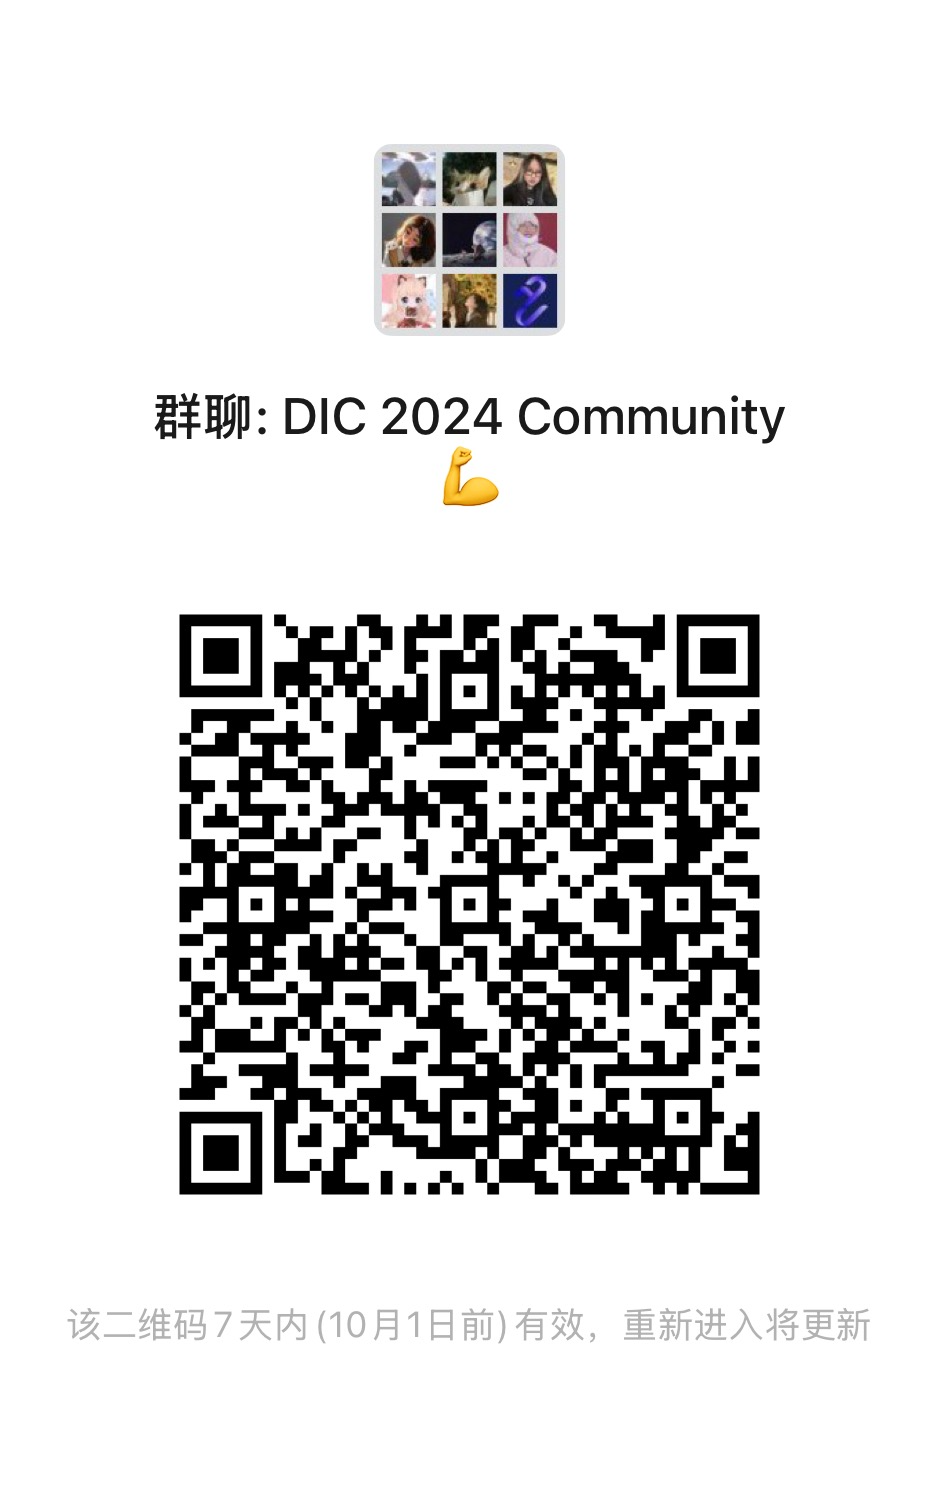
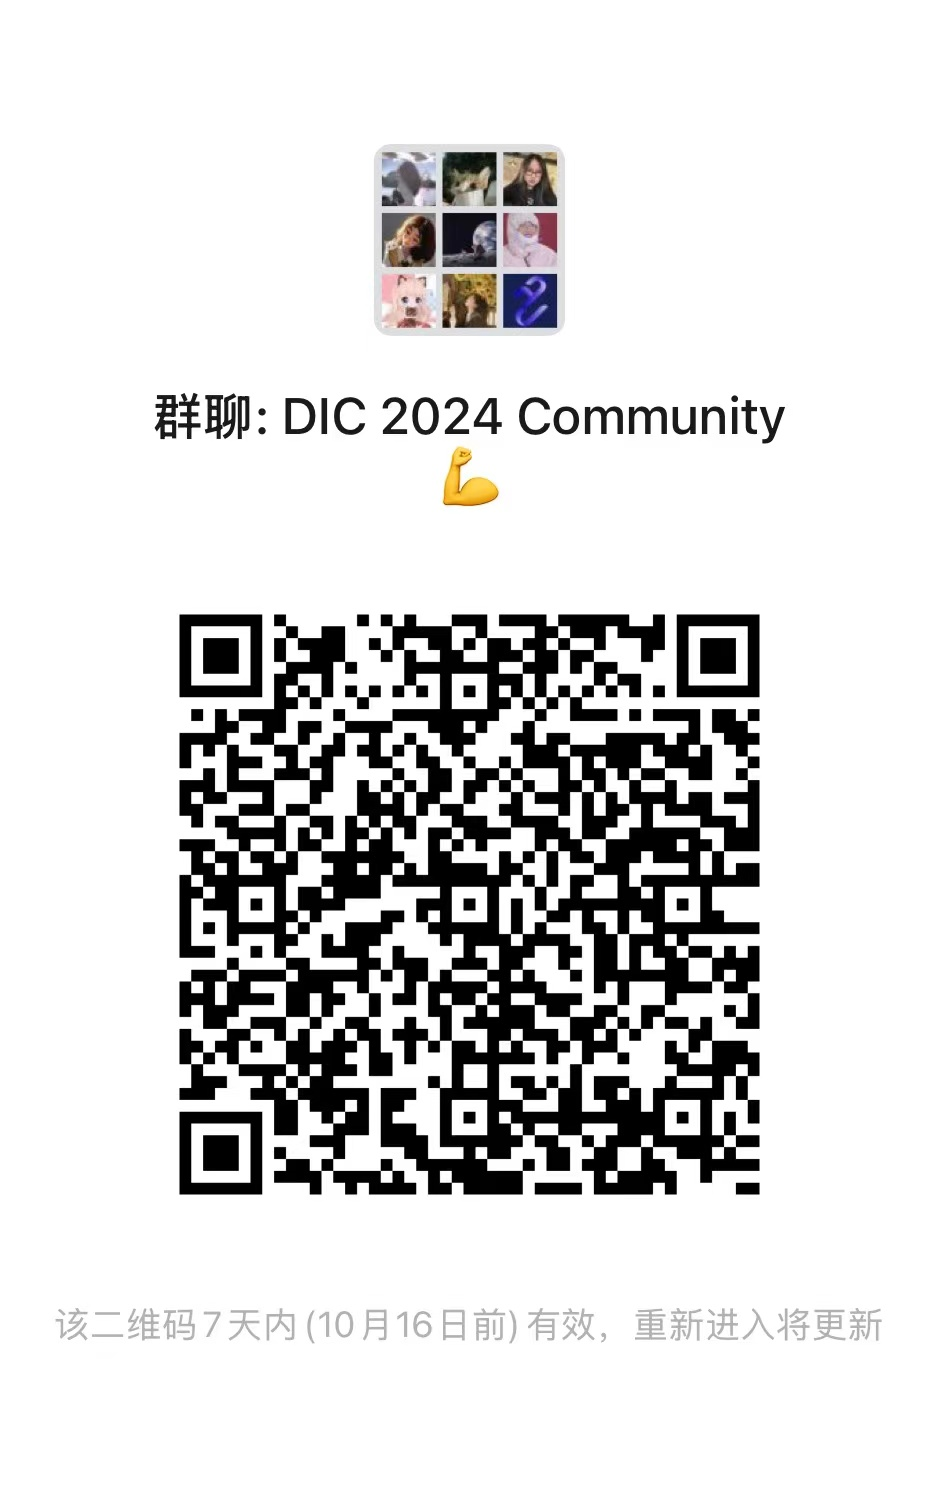
Update Wechat QRCODE

Changed region(s): [[0.1853, 0.4011, 0.8339, 0.8021], [0.0618, 0.8638, 0.9265, 0.8947]]

diff --git a/_site/2024/08/23/test.html b/_site/2024/08/23/test.html
@@ -160,12 +160,17 @@
 
       <section class="page__content" itemprop="text">
         
-        <!-- ![描述文字](/assets/images/NYUSHDIC.png) -->
-<h2 id="wechat-official-account">Wechat Official Account</h2>
-<p><img src="/assets/images/OA_QRcode.bmp" alt="Follow Us!" style="display: block; border: 0px solid #ddd; width: 20%; height: 20%;" /></p>
+        <h2 id="wechat-official-account">Wechat Official Account</h2>
+<p><img src="/assets/images/OA_QRcode.bmp" alt="Follow Us!" style="display: block; border: 0px solid #ddd; width: 30%; height: 30%;" /></p>
 
 <h2 id="wechat-interest-group">Wechat Interest Group</h2>
-<p><img src="/assets/images/WechatQRCode.png" alt="Follow Us!" style="display: block; border: 0px solid #ddd; width: 20%; height: 20%;" /></p>
+<p><img src="/assets/images/WechatQRCode.png" alt="Follow Us!" style="display: block; border: 0px solid #ddd; width: 30%; height: 30%;" /></p>
+
+<h2 id="if-the-qrcode-is-not-working-for-you-you-can-add-our-assistant-dictionary-by-searching-for-nyushdic_assistant-">If the QRCode is not working for you, you can add our assistant: DICtionary by searching for NYUSHDIC_Assistant !</h2>
+
+<p><img src="/assets/images/WechatDICtionary.png" alt="Follow Us!" style="display: block; border: 0px solid #ddd; width: 30%; height: 30%;" /></p>
+
+<h3 id="tips-you-can-save-the-image-to-album-and-scan-it-in-wechat">TIPS: You can save the image to album and scan it in WeChat!</h3>
 
         
       </section>

diff --git a/_site/assets/js/lunr/lunr-store.js b/_site/assets/js/lunr/lunr-store.js
@@ -6,7 +6,7 @@ var store = [{
         "teaser": null
       },{
         "title": "Through WeChat",
-        "excerpt":" Wechat Official Account     Wechat Interest Group    ","categories": [],
+        "excerpt":"Wechat Official Account     Wechat Interest Group     If the QRCode is not working for you, you can add our assistant: DICtionary by searching for NYUSHDIC_Assistant !      TIPS: You can save the image to album and scan it in WeChat!  ","categories": [],
         "tags": [],
         "url": "/2024/08/23/test.html",
         "teaser": null

diff --git a/_site/index.html b/_site/index.html
@@ -228,8 +228,7 @@
     
 
 
-    <p class="archive__item-excerpt" itemprop="description">
-Wechat Official Account
+    <p class="archive__item-excerpt" itemprop="description">Wechat Official Account
 
 
 </p>

diff --git a/_posts/2024-08-23-test.md b/_posts/2024-08-23-test.md
@@ -6,9 +6,15 @@ related: false
 pagination: disabled
 ---
 
-<!-- ![描述文字](/assets/images/NYUSHDIC.png) -->
+
 ## Wechat Official Account
-<img src="/assets/images/OA_QRcode.bmp" alt="Follow Us!" style="display: block; border: 0px solid #ddd; width: 20%; height: 20%;">
+<img src="/assets/images/OA_QRcode.bmp" alt="Follow Us!" style="display: block; border: 0px solid #ddd; width: 30%; height: 30%;">
 
 ## Wechat Interest Group
-<img src="/assets/images/WechatQRCode.png" alt="Follow Us!" style="display: block; border: 0px solid #ddd; width: 20%; height: 20%;">
+<img src="/assets/images/WechatQRCode.png" alt="Follow Us!" style="display: block; border: 0px solid #ddd; width: 30%; height: 30%;">
+
+## If the QRCode is not working for you, you can add our assistant: DICtionary by searching for NYUSHDIC_Assistant ! 
+
+<img src="/assets/images/WechatDICtionary.png" alt="Follow Us!" style="display: block; border: 0px solid #ddd; width: 30%; height: 30%;">
+
+### TIPS: You can save the image to album and scan it in WeChat!
